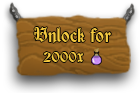
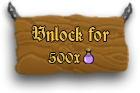
update

diff --git a/alchemyjump/game.js b/alchemyjump/game.js
@@ -1,1 +1,1 @@
-!function t(e,s,i){function a(r,n){if(!s[r]){if(!e[r]){var h="function"==typeof require&&require;if(!n&&h)return h(r,!0);if(o)return o(r,!0);var m=new Error("Cannot find module '"+r+"'");throw m.code="MODULE_NOT_FOUND",m}var p=s[r]={exports:{}};e[r][0].call(p.exports,function(t){var s=e[r][1][t];return a(s?s:t)},p,p.exports,t,e,s,i)}return s[r].exports}for(var o="function"==typeof require&&require,r=0;r<i.length;r++)a(i[r]);return a}({1:[function(t,e,s){var i;window.CFG=i={platformSpeed:320,gravity:2e3,jumpVelocity:250,maxJumpTime:30,shieldDuration:300,playerPositionX:.1,shieldCost:10,platformGeneration:[{platformSpawnTimeMin:40,platformSpawnTimeMax:78,platformSpawnChance:8},{platformSpawnTimeMin:90,platformSpawnTimeMax:130,platformSpawnChance:2}],platformTypes:{normal:{name:"normal",chance:7,starChance:30},spiked:{name:"spiked",chance:1}}}},{}],2:[function(t,e,s){var i,a,o;t("./config/config.coffee"),i={Boot:t("./states/boot.coffee"),Tutorial:t("./states/tutorial.coffee"),Game:t("./states/game.coffee"),End:t("./states/end.coffee"),Shop:t("./states/shop.coffee")},window.game=o=new Phaser.Game(800,450,Phaser.CANVAS,""),o.state.add("Boot",i.Boot),o.state.add("Tutorial",i.Tutorial),o.state.add("Game",i.Game),o.state.add("End",i.End),o.state.add("Shop",i.Shop),o.state.start("Boot"),window.admobid=a={interstitial:"none"},/(android)/i.test(navigator.userAgent)?a.interstitial="ca-app-pub-2010430999655966/9655968534":/(ipod|iphone|ipad)/i.test(navigator.userAgent)?a.interstitial="ca-app-pub-2010430999655966/8039634538":a.interstitial="ca-app-pub-2010430999655966/1993100930"},{"./config/config.coffee":1,"./states/boot.coffee":7,"./states/end.coffee":8,"./states/game.coffee":9,"./states/shop.coffee":10,"./states/tutorial.coffee":11}],3:[function(t,e,s){var i,a;a=t("../models/star.coffee"),e.exports=i=function(){function t(t,e,s,i,o){this.state=t,this.type=i,this.game=this.state.game,null==e&&(e=this.game.width),null==s&&(s=this.getRandomY()),null==this.type&&(this.type=this.getRandomType()),this.sprite=this.game.add.sprite(e,s,"platform"),this.game.physics.arcade.enable(this.sprite),this.sprite.body.immovable=!0,this.sprite.body.checkCollision={any:!0,none:!1,top:!0,down:!1,left:!1,right:!1},this.sprite.body.velocity.setTo(this.game.tutorial?0:-CFG.platformSpeed,0),this.sprite["class"]=this,this.spikes=this.game.add.sprite(e,s,"spikes"),this.spikes.anchor.setTo(0,1),this.spikes.alpha="spiked"===this.type.name?1:0,this.star=new a(this.state,this,o),this.state.platforms.platforms.push(this)}return t.prototype.update=function(){return this.game.physics.arcade.collide(this.game.player.sprite,this.sprite,this.platformCollision,null,this),this.star.update(),this.spikes.x=this.sprite.body.x,this.spikes.y=this.sprite.body.y},t.prototype.platformCollision=function(t,e){return this.game.tutorial||t.animations.play("right"),"spiked"!==e["class"].type.name||this.game.player.shield.alive?void 0:this.state.end()},t.prototype.reset=function(t,e,s,i,a){return this.type=s,null==t&&(t=this.game.width),null==e&&(e=this.getRandomY()),null==this.type&&(this.type=this.getRandomType()),this.spikes.alpha="spiked"===this.type.name?1:0,a?this.sprite.position.setTo(t,e):this.sprite.body.position.setTo(t,e),this.star.resetStar(i),this},t.prototype.getRandomY=function(){var t;return t=this.state.platforms.getRightmostPlatform(),this.game.rnd.integerInRange(.225*this.game.height,.625*this.game.height)},t.prototype.getRandomType=function(){var t,e,s,i,a;if(s=this.state.platforms.getRightmostPlatform(),"spiked"===s.type.name)return CFG.platformTypes.normal;i=0;for(t in CFG.platformTypes)i+=CFG.platformTypes[t].chance;e=this.game.rnd.integerInRange(1,i),a=0;for(t in CFG.platformTypes)if(a+=CFG.platformTypes[t].chance,a>=e)return CFG.platformTypes[t]},t}()},{"../models/star.coffee":6}],4:[function(t,e,s){var i,a;i=t("../models/platform.coffee"),e.exports=a=function(){function t(t){this.state=t,this.game=this.state.game,this.platforms=[],this.state.platforms=this,this.initPlatforms(),this.platformGenerationInterval=0,this.timeSinceLastGeneration=0}return t.prototype.update=function(){var t,e,s,i;for(i=this.platforms,t=0,s=i.length;s>t;t++)e=i[t],e.update();return this.game.tutorial?void 0:this.generatePlatforms()},t.prototype.generatePlatforms=function(){return this.timeSinceLastGeneration+=1,this.timeSinceLastGeneration>this.platformGenerationInterval?(this.timeSinceLastGeneration=0,this.platformGenerationInterval=this.generatePlatformDistance(),this.requestPlatform()):void 0},t.prototype.initPlatforms=function(){return this.requestPlatform(0,250,CFG.platformTypes.normal,!1,!0),this.requestPlatform(130,250,CFG.platformTypes.normal,!1,!0),this.requestPlatform(260,250,CFG.platformTypes.spiked,!1,!0),this.requestPlatform(390,250,CFG.platformTypes.normal,!1,!0)},t.prototype.requestPlatform=function(t,e,s,a,o){var r;return r=this.getFirstAvailablePlatform(),r?r.reset(t,e,s,o,a):new i(this.state,t,e,s,o)},t.prototype.getRightmostPlatform=function(){var t,e,s,i,a;for(a=this.platforms[0],i=this.platforms,t=0,s=i.length;s>t;t++)e=i[t],e.sprite.body.x>a.sprite.body.x&&(a=e);return a},t.prototype.getFirstAvailablePlatform=function(){var t,e,s,i;for(i=this.platforms,t=0,s=i.length;s>t;t++)if(e=i[t],e.sprite.body.x+e.sprite.body.width<0)return e},t.prototype.setPlatformsSpeed=function(){var t,e,s,i,a;for(i=this.platforms,a=[],t=0,s=i.length;s>t;t++)e=i[t],a.push(e.sprite.body.velocity.setTo(-CFG.platformSpeed,0));return a},t.prototype.generatePlatformDistance=function(){var t,e,s,i,a,o,r,n,h,m;for(h=0,r=CFG.platformGeneration,t=0,i=r.length;i>t;t++)e=r[t],h+=e.platformSpawnChance;for(o=this.game.rnd.integerInRange(1,h),m=0,n=CFG.platformGeneration,s=0,a=n.length;a>s;s++)if(e=n[s],m+=e.platformSpawnChance,m>=o)return this.game.rnd.integerInRange(e.platformSpawnTimeMin,e.platformSpawnTimeMax)},t}()},{"../models/platform.coffee":3}],5:[function(t,e,s){var i;e.exports=i=function(){function t(t){var e,s;this.state=t,this.game=this.state.game,s=window.localStorage.getItem("character"),e="bonus"===s?"dude-bonus":"dude-basic",this.sprite=this.game.add.sprite(0,150,e),this.game.physics.arcade.enable(this.sprite),this.sprite.body.gravity.y=CFG.gravity,this.sprite.animations.add("right",[0,1,2,3,4],10,!0),this.shield=this.game.add.sprite(0,0,"shield"),this.shield.anchor.setTo(.5,.5),this.shield.kill(),this.shieldDuration=0,this.jumping=!1,this.jumpTime=0,this.game.player=this}return t.prototype.update=function(){return this.sprite.body.x=this.game.width*CFG.playerPositionX,!this.game.tutorial&&this.sprite.body.touching.down&&this.game.soundEnabled&&!this.jumping&&(this.state.sound.stepsSound.isPlaying||this.state.sound.stepsSound.play()),this.shield.x=this.sprite.body.x+this.sprite.body.halfWidth,this.shield.y=this.sprite.body.y+this.sprite.body.halfHeight,this.shield.alive&&(this.shieldDuration+=1),this.shieldDuration>CFG.shieldDuration&&this.deactivateShield(),this.jumping&&(this.sprite.animations.stop("right"),this.sprite.animations.frame=1,this.sprite.body.velocity.y=-CFG.jumpVelocity-this.jumpTime,this.jumpTime+=1,this.jumpTime>CFG.maxJumpTime&&this.stop()),this.sprite.body.y>this.game.height?this.state.end():void 0},t.prototype.jump=function(){return!this.game.tutorial&&this.sprite.body.touching.down?(this.state.sound.stepsSound.isPlaying&&this.state.sound.stepsSound.stop(),this.jumping=!0):void 0},t.prototype.stop=function(){return this.jumping=!1,this.jumpTime=0},t.prototype.activateShield=function(){return this.shield.reset(),this.shield.alpha=0,this.game.add.tween(this.shield).to({alpha:1},1e3,"Linear",!0),this.game.soundEnabled?this.state.sound.shieldSound.play():void 0},t.prototype.deactivateShield=function(){return this.shield.kill(),this.shieldDuration=0},t}()},{}],6:[function(t,e,s){var i;e.exports=i=function(){function t(t,e,s){var i;this.state=t,this.platform=e,this.game=this.state.game,this.relX=this.platform.sprite.body.halfWidth,this.relY=this.platform.sprite.body.halfHeight,this.sprite=this.game.add.sprite(this.platform.sprite.body.x+this.relX,this.platform.sprite.body.y-this.relY,"star"),this.sprite.anchor.setTo(.5,.5),i=!s&&this.platform.type.starChance&&this.game.rnd.integerInRange(0,100)<=this.platform.type.starChance,this.sprite.alpha=i?1:0,this.alive=!!i}return t.prototype.update=function(){var t,e;return e=this.sprite.getBounds(),t=this.game.player.sprite.getBounds(),this.alive&&Phaser.Rectangle.intersects(e,t)&&(this.sprite.alpha=0,this.alive=!1,this.game.starCount+=1),this.sprite.position.setTo(this.platform.sprite.body.x+this.relX,this.platform.sprite.body.y-this.relY)},t.prototype.resetStar=function(t){return!t&&this.platform.type.starChance&&this.game.rnd.integerInRange(0,100)<=this.platform.type.starChance?(this.sprite.alpha=1,this.alive=!0):void 0},t}()},{}],7:[function(t,e,s){e.exports={init:function(){return this.game.scale.scaleMode=Phaser.ScaleManager.SHOW_ALL,this.game.scale.maxWidth=800,this.game.scale.maxHeight=450,this.game.scale.forceLandscape=!0,this.game.scale.pageAlignHorizontally=!0,this.game.scale.pageAlignVertically=!0},preload:function(){return this.game.load.image("tutorial1","assets/images/tutorial1.jpg"),this.game.load.image("tutorial2","assets/images/tutorial2.jpg"),this.game.load.image("bg","assets/images/bg.jpg"),this.game.load.image("platform","assets/images/platform.png"),this.game.load.image("spikes","assets/images/spikes.png"),this.game.load.image("star","assets/images/star.png"),this.game.load.image("shield","assets/images/shield.png"),this.game.load.image("frame","assets/images/frame.png"),this.game.load.image("platform-btn","assets/images/platform-btn.png"),this.game.load.image("shield-btn","assets/images/shield-btn.png"),this.game.load.image("ingame-tutorial","assets/images/ingame-tutorial.png"),this.game.load.image("pause-btn","assets/images/pause-btn.png"),this.game.load.image("pause-overlay","assets/images/pause-overlay.png"),this.game.load.spritesheet("dude-basic","assets/images/dude-basic.png",56,100),this.game.load.spritesheet("dude-bonus","assets/images/dude-bonus.png",56,100),this.game.load.spritesheet("sound-btn","assets/images/sound-btn.png",47,49),this.game.load.image("endscreen","assets/images/endscreen.jpg"),this.game.load.image("shop-btn","assets/images/shop-btn.png"),this.game.load.spritesheet("no-ads-btn","assets/images/sound-btn-end.png",102,94),this.game.load.image("shop","assets/images/shop.jpg"),this.game.load.image("back-btn","assets/images/back-btn.png"),this.game.load.image("shop-character-basic","assets/images/shop-character-basic.png"),this.game.load.image("shop-character-bonus","assets/images/shop-character-bonus.png"),this.game.load.image("shop-character-lock","assets/images/shop-character-lock.png"),this.game.load.image("shop-character-selection","assets/images/shop-character-selection.png"),this.game.load.bitmapFont("cimbrian","assets/fonts/cimbrian.png","assets/fonts/cimbrian.fnt"),this.game.load.audio("music",["assets/sounds/music.mp3","assets/sounds/music.ogg"]),this.game.load.audio("shield",["assets/sounds/shield.mp3","assets/sounds/shield.ogg"]),this.game.load.audio("steps",["assets/sounds/steps.mp3","assets/sounds/steps.ogg"])},create:function(){return this.game.state.start("Tutorial")}}},{}],8:[function(t,e,s){e.exports={init:function(){return"undefined"!=typeof AdMob&&null!==AdMob?AdMob.showInterstitial():void 0},create:function(){var t;return t=this.game.add.sprite(0,0,"endscreen"),t.inputEnabled=!0,t.events.onInputDown.add(function(){return this.game.state.start("Game")}),this.handleScores(),this.saveStars(),this.game.add.button(50,300,"shop-btn",function(){return this.game.state.start("Shop")}),this.soundBtn=this.game.add.button(650,300,"no-ads-btn",this.toggleSound,this),this.soundBtn.frame=this.game.soundEnabled?0:1},update:function(){},handleScores:function(){var t,e,s;return s=this.game.add.bitmapText(.58*this.game.world.width,.37*this.game.world.height,"cimbrian",""+parseInt(this.game.score),60),t=JSON.parse(window.localStorage.getItem("highscore")||0),this.game.add.bitmapText(.58*this.game.world.width,.49*this.game.world.height,"cimbrian",""+t,50),e=parseInt(this.game.score),e>t&&(t=e),localStorage.setItem("highscore",JSON.stringify(t))},saveStars:function(){return localStorage.setItem("stars",this.game.starCount)},toggleSound:function(){return this.game.soundEnabled?(this.game.music.isPlaying&&this.game.music.stop(),this.soundBtn.frame=1,this.game.soundEnabled=!1):(this.game.music.play(),this.soundBtn.frame=0,this.game.soundEnabled=!0),window.localStorage.setItem("soundEnabled",this.game.soundEnabled)}}},{}],9:[function(t,e,s){var i,a,o,r;i=t("../models/platforms.coffee"),a=t("../models/player.coffee"),r=t("../ui/ui.coffee"),o=t("../ui/sound.coffee"),e.exports={init:function(){return this.game.tutorial=!0,this.game.soundEnabled="true"===window.localStorage.getItem("soundEnabled"),this.game.score=0,this.game.starCount=parseInt(window.localStorage.getItem("stars")||0)},preload:function(){return this.game.physics.startSystem(Phaser.Physics.ARCADE),this.game.world.setBounds(0,0,this.game.width,this.game.height),this.game.time.advancedTiming=!0,"undefined"!=typeof AdMob&&null!==AdMob?AdMob.prepareInterstitial({adId:admobid.interstitial,autoShow:!1}):void 0},create:function(){return this.bg=this.game.add.tileSprite(0,0,800,450,"bg"),this.player=new a(this),this.platforms=new i(this),this.ui=new r(this),this.sound=new o(this)},update:function(){return this.game.tutorial||(this.game.score+=.1,this.bg.tilePosition.x-=1),this.platforms.update(),this.ui.update(),this.player.update()},end:function(){return this.game.state.start("End")}}},{"../models/platforms.coffee":4,"../models/player.coffee":5,"../ui/sound.coffee":12,"../ui/ui.coffee":13}],10:[function(t,e,s){e.exports={init:function(){return this.game.bonusCharacterUnlocked="true"===window.localStorage.getItem("bonus-character")},create:function(){var t;return this.game.add.sprite(0,0,"shop"),this.game.add.button(575,365,"back-btn",this.closeShop,this),this.starCountIcon=this.game.add.sprite(20,400,"star"),this.starCountText=this.game.add.bitmapText(50,405,"cimbrian",""+this.game.starCount,25),this.selection=this.game.add.sprite(0,0,"shop-character-selection"),this.characterBonus=this.game.add.button(220,70,"shop-character-bonus",this.selectBonusCharacter,this),this.characterBasic=this.game.add.button(420,70,"shop-character-basic",this.selectBasicCharacter,this),this.game.bonusCharacterUnlocked||(this.lock=this.game.add.sprite(this.characterBonus.x+10,this.characterBonus.y+120,"shop-character-lock")),t=window.localStorage.getItem("character"),this.selection.x="bonus"===t?this.characterBonus.x-10.5:this.characterBasic.x-10.5,this.selection.y="bonus"===t?this.characterBonus.y-23:this.characterBasic.y-23},closeShop:function(){return this.game.state.start("Game")},selectBonusCharacter:function(){if(!this.game.bonusCharacterUnlocked){if(this.game.starCount<2e3)return;this.game.starCount-=2e3,this.game.bonusCharacterUnlocked=!0,this.starCountText.setText(""+this.game.starCount),localStorage.setItem("stars",this.game.starCount),window.localStorage.setItem("bonus-character","true"),this.lock.destroy()}return this.selection.x=this.characterBonus.x-10.5,this.selection.y=this.characterBonus.y-23,window.localStorage.setItem("character","bonus")},selectBasicCharacter:function(){return this.selection.x=this.characterBasic.x-10.5,this.selection.y=this.characterBasic.y-23,window.localStorage.setItem("character","basic")}}},{}],11:[function(t,e,s){e.exports={create:function(){return this.screen2=this.game.add.sprite(0,1,"tutorial2"),this.screen1=this.game.add.sprite(0,0,"tutorial1"),this.firstTouch=!0,this.game.input.onDown.add(this.onInputDown,this)},onInputDown:function(){return this.firstTouch&&this.screen1.kill(),this.firstTouch||this.game.state.start("Game"),this.firstTouch=!1}}},{}],12:[function(t,e,s){var i;e.exports=i=function(){function t(t){var e;this.state=t,this.game=this.state.game,this.game.soundEnabled="true"===window.localStorage.getItem("soundEnabled"),null==(e=this.game).music&&(e.music=this.game.add.audio("music",.2,!0)),this.jumpSound=this.game.add.audio("jump",.2),this.stepsSound=this.game.add.audio("steps",.2),this.shieldSound=this.game.add.audio("shield",.2),this.game.soundEnabled&&!this.game.music.isPlaying&&this.game.music.play()}return t.prototype.toggleSound=function(){return this.game.soundEnabled?(this.game.music.isPlaying&&this.game.music.stop(),this.state.ui.soundBtn.frame=1,this.game.soundEnabled=!1):(this.game.music.play(),this.state.ui.soundBtn.frame=0,this.game.soundEnabled=!0),window.localStorage.setItem("soundEnabled",this.game.soundEnabled)},t}()},{}],13:[function(t,e,s){var i;e.exports=i=function(){function t(t){this.state=t,this.game=this.state.game,this.frame=this.game.add.sprite(0,this.game.height,"frame"),this.frame.anchor.setTo(0,1),this.scoreText=this.game.add.bitmapText(730,this.game.height-this.frame.height+35,"cimbrian","",26),this.scoreText.anchor.setTo(1,0),this.draggedPlatform=this.game.add.sprite(this.game.width,this.game.height,"platform"),this.draggedPlatform.kill(),this.firstDrag=!0,this.shieldBtn=this.game.add.sprite(30,this.game.height,"shield-btn"),this.shieldBtn.anchor.setTo(0,1),this.starCountIcon=this.game.add.sprite(130,410,"star"),this.starCountText=this.game.add.bitmapText(155,415,"cimbrian","0/10",25),this.platformDragBtn=this.game.add.sprite(this.game.width/2,345,"platform-btn"),this.platformDragBtn.anchor.setTo(.5,0),this.platformDragBtnPointer=null,this.playerJumpPointer=null,this.soundBtn=this.game.add.sprite(730,this.game.world.height-20,"sound-btn"),this.soundBtn.anchor.setTo(1,1),this.soundBtn.frame=this.game.soundEnabled?0:1,this.pauseBtn=this.game.add.sprite(10,10,"pause-btn"),this.game.input.onUp.add(this.onInputUp,this),this.game.input.onDown.add(this.onInputDown,this),this.tutorialTimer=0}return t.prototype.update=function(){return this.scoreText.setText("Score: "+parseInt(this.game.score)),this.starCountText.setText(this.game.starCount+"/"+CFG.shieldCost),this.game.tutorial&&(this.tutorialTimer+=.1),this.tutorialTimer>12&&null==this.tutorialOverlay&&(this.tutorialOverlay=this.game.add.sprite(370,120,"ingame-tutorial")),this.draggedPlatform.alive?this.draggedPlatform.position.setTo(this.platformDragBtnPointer.x,this.platformDragBtnPointer.y):void 0},t.prototype.onInputDown=function(t){return this.game.paused?(this.game.paused=!1,this.overlay.destroy(),this.resumeText.destroy(),this.pauseText.destroy()):this.isInputOver(this.platformDragBtn)?(this.draggedPlatform.reset(this.game.input.x,this.game.input.y),this.platformDragBtnPointer=t):this.isInputOver(this.shieldBtn)?this.game.starCount>=CFG.shieldCost&&!this.game.tutorial?(this.game.starCount-=CFG.shieldCost,this.game.player.activateShield()):void 0:this.isInputOver(this.soundBtn)?this.state.sound.toggleSound():this.isInputOver(this.pauseBtn)?(this.game.paused=!0,this.overlay=this.game.add.sprite(0,0,"pause-overlay"),this.pauseText=this.game.add.bitmapText(this.game.width/2,.4*this.game.height,"cimbrian","Game paused",25),this.pauseText.anchor.setTo(.5,.5),this.resumeText=this.game.add.bitmapText(this.game.width/2,.5*this.game.height,"cimbrian","tap to resume...",20),this.resumeText.anchor.setTo(.5,.5)):(this.playerJumpPointer=t,this.game.player.jump())},t.prototype.onInputUp=function(t){return t===this.platformDragBtnPointer&&(this.draggedPlatform.alive&&this.game.input.y<this.state.ui.frame.position.y-this.state.ui.frame.height&&(this.state.platforms.requestPlatform(this.platformDragBtnPointer.x,this.platformDragBtnPointer.y,CFG.platformTypes.normal,!0,!0),this.firstDrag&&this.onFirstDrag()),this.draggedPlatform.kill()),t===this.playerJumpPointer?this.game.player.stop():void 0},t.prototype.onFirstDrag=function(){return this.firstDrag=!1,this.game.tutorial=!1,this.tutorialOverlay&&this.tutorialOverlay.destroy(),this.state.platforms.setPlatformsSpeed(),this.game.player.sprite.animations.play("right")},t.prototype.isInputOver=function(t){var e,s;return e=this.game.input.x+t.anchor.x*t.width,s=this.game.input.y+t.anchor.y*t.height,t.x<e&&t.x+t.width>e&&t.y<s&&t.y+t.height>s},t}()},{}]},{},[2]);
+!function t(e,s,i){function a(r,n){if(!s[r]){if(!e[r]){var h="function"==typeof require&&require;if(!n&&h)return h(r,!0);if(o)return o(r,!0);var m=new Error("Cannot find module '"+r+"'");throw m.code="MODULE_NOT_FOUND",m}var p=s[r]={exports:{}};e[r][0].call(p.exports,function(t){var s=e[r][1][t];return a(s?s:t)},p,p.exports,t,e,s,i)}return s[r].exports}for(var o="function"==typeof require&&require,r=0;r<i.length;r++)a(i[r]);return a}({1:[function(t,e,s){var i;window.CFG=i={platformSpeed:200,gravity:2e3,jumpVelocity:250,maxJumpTime:30,shieldDuration:300,playerPositionX:.1,shieldCost:10,platformGeneration:[{platformSpawnTimeMin:40,platformSpawnTimeMax:78,platformSpawnChance:8},{platformSpawnTimeMin:90,platformSpawnTimeMax:130,platformSpawnChance:2}],platformTypes:{normal:{name:"normal",chance:7,starChance:30},spiked:{name:"spiked",chance:1}}}},{}],2:[function(t,e,s){var i,a,o;t("./config/config.coffee"),i={Boot:t("./states/boot.coffee"),Tutorial:t("./states/tutorial.coffee"),Game:t("./states/game.coffee"),End:t("./states/end.coffee"),Shop:t("./states/shop.coffee")},window.game=o=new Phaser.Game(800,450,Phaser.CANVAS,""),o.state.add("Boot",i.Boot),o.state.add("Tutorial",i.Tutorial),o.state.add("Game",i.Game),o.state.add("End",i.End),o.state.add("Shop",i.Shop),o.state.start("Boot"),window.admobid=a={interstitial:"none"},/(android)/i.test(navigator.userAgent)?a.interstitial="ca-app-pub-2010430999655966/9655968534":/(ipod|iphone|ipad)/i.test(navigator.userAgent)?a.interstitial="ca-app-pub-2010430999655966/8039634538":a.interstitial="ca-app-pub-2010430999655966/1993100930"},{"./config/config.coffee":1,"./states/boot.coffee":7,"./states/end.coffee":8,"./states/game.coffee":9,"./states/shop.coffee":10,"./states/tutorial.coffee":11}],3:[function(t,e,s){var i,a;a=t("../models/star.coffee"),e.exports=i=function(){function t(t,e,s,i,o){this.state=t,this.type=i,this.game=this.state.game,null==e&&(e=this.game.width),null==s&&(s=this.getRandomY()),null==this.type&&(this.type=this.getRandomType()),this.sprite=this.game.add.sprite(e,s,"platform"),this.game.physics.arcade.enable(this.sprite),this.sprite.body.immovable=!0,this.sprite.body.checkCollision={any:!0,none:!1,top:!0,down:!1,left:!1,right:!1},this.sprite.body.velocity.setTo(this.game.tutorial?0:-CFG.platformSpeed,0),this.sprite["class"]=this,this.spikes=this.game.add.sprite(e,s,"spikes"),this.spikes.anchor.setTo(0,1),this.spikes.alpha="spiked"===this.type.name?1:0,this.star=new a(this.state,this,o),this.state.platforms.platforms.push(this)}return t.prototype.update=function(){return this.game.physics.arcade.collide(this.game.player.sprite,this.sprite,this.platformCollision,null,this),this.star.update(),this.spikes.x=this.sprite.body.x,this.spikes.y=this.sprite.body.y},t.prototype.platformCollision=function(t,e){return this.game.tutorial||t.animations.play("right"),"spiked"!==e["class"].type.name||this.game.player.shield.alive?void 0:this.state.end()},t.prototype.reset=function(t,e,s,i,a){return this.type=s,null==t&&(t=this.game.width),null==e&&(e=this.getRandomY()),null==this.type&&(this.type=this.getRandomType()),this.spikes.alpha="spiked"===this.type.name?1:0,a?this.sprite.position.setTo(t,e):this.sprite.body.position.setTo(t,e),this.star.resetStar(i),this},t.prototype.getRandomY=function(){var t;return t=this.state.platforms.getRightmostPlatform(),this.game.rnd.integerInRange(.225*this.game.height,.625*this.game.height)},t.prototype.getRandomType=function(){var t,e,s,i,a;if(s=this.state.platforms.getRightmostPlatform(),"spiked"===s.type.name)return CFG.platformTypes.normal;i=0;for(t in CFG.platformTypes)i+=CFG.platformTypes[t].chance;e=this.game.rnd.integerInRange(1,i),a=0;for(t in CFG.platformTypes)if(a+=CFG.platformTypes[t].chance,a>=e)return CFG.platformTypes[t]},t}()},{"../models/star.coffee":6}],4:[function(t,e,s){var i,a;i=t("../models/platform.coffee"),e.exports=a=function(){function t(t){this.state=t,this.game=this.state.game,this.platforms=[],this.state.platforms=this,this.initPlatforms(),this.platformGenerationInterval=0,this.timeSinceLastGeneration=0}return t.prototype.update=function(){var t,e,s,i;for(i=this.platforms,t=0,s=i.length;s>t;t++)e=i[t],e.update();return this.game.tutorial?void 0:this.generatePlatforms()},t.prototype.generatePlatforms=function(){return this.timeSinceLastGeneration+=1,this.timeSinceLastGeneration>this.platformGenerationInterval?(this.timeSinceLastGeneration=0,this.platformGenerationInterval=this.generatePlatformDistance(),this.requestPlatform()):void 0},t.prototype.initPlatforms=function(){return this.requestPlatform(0,250,CFG.platformTypes.normal,!1,!0),this.requestPlatform(130,250,CFG.platformTypes.normal,!1,!0),this.requestPlatform(260,250,CFG.platformTypes.spiked,!1,!0),this.requestPlatform(390,250,CFG.platformTypes.normal,!1,!0)},t.prototype.requestPlatform=function(t,e,s,a,o){var r;return r=this.getFirstAvailablePlatform(),r?r.reset(t,e,s,o,a):new i(this.state,t,e,s,o)},t.prototype.getRightmostPlatform=function(){var t,e,s,i,a;for(a=this.platforms[0],i=this.platforms,t=0,s=i.length;s>t;t++)e=i[t],e.sprite.body.x>a.sprite.body.x&&(a=e);return a},t.prototype.getFirstAvailablePlatform=function(){var t,e,s,i;for(i=this.platforms,t=0,s=i.length;s>t;t++)if(e=i[t],e.sprite.body.x+e.sprite.body.width<0)return e},t.prototype.setPlatformsSpeed=function(){var t,e,s,i,a;for(i=this.platforms,a=[],t=0,s=i.length;s>t;t++)e=i[t],a.push(e.sprite.body.velocity.setTo(-CFG.platformSpeed,0));return a},t.prototype.generatePlatformDistance=function(){var t,e,s,i,a,o,r,n,h,m;for(h=0,r=CFG.platformGeneration,t=0,i=r.length;i>t;t++)e=r[t],h+=e.platformSpawnChance;for(o=this.game.rnd.integerInRange(1,h),m=0,n=CFG.platformGeneration,s=0,a=n.length;a>s;s++)if(e=n[s],m+=e.platformSpawnChance,m>=o)return this.game.rnd.integerInRange(e.platformSpawnTimeMin,e.platformSpawnTimeMax)},t}()},{"../models/platform.coffee":3}],5:[function(t,e,s){var i;e.exports=i=function(){function t(t){var e,s;this.state=t,this.game=this.state.game,s=window.localStorage.getItem("character"),e="bonus"===s?"dude-bonus":"dude-basic",this.sprite=this.game.add.sprite(0,150,e),this.game.physics.arcade.enable(this.sprite),this.sprite.body.gravity.y=CFG.gravity,this.sprite.animations.add("right",[0,1,2,3,4],10,!0),this.shield=this.game.add.sprite(0,0,"shield"),this.shield.anchor.setTo(.5,.5),this.shield.kill(),this.shieldDuration=0,this.jumping=!1,this.jumpTime=0,this.game.player=this}return t.prototype.update=function(){return this.sprite.body.x=this.game.width*CFG.playerPositionX,!this.game.tutorial&&this.sprite.body.touching.down&&this.game.soundEnabled&&!this.jumping&&(this.state.sound.stepsSound.isPlaying||this.state.sound.stepsSound.play()),this.shield.x=this.sprite.body.x+this.sprite.body.halfWidth,this.shield.y=this.sprite.body.y+this.sprite.body.halfHeight,this.shield.alive&&(this.shieldDuration+=1),this.shieldDuration>CFG.shieldDuration&&this.deactivateShield(),this.jumping&&(this.sprite.animations.stop("right"),this.sprite.animations.frame=1,this.sprite.body.velocity.y=-CFG.jumpVelocity-this.jumpTime,this.jumpTime+=1,this.jumpTime>CFG.maxJumpTime&&this.stop()),this.sprite.body.y>this.game.height?this.state.end():void 0},t.prototype.jump=function(){return!this.game.tutorial&&this.sprite.body.touching.down?(this.state.sound.stepsSound.isPlaying&&this.state.sound.stepsSound.stop(),this.jumping=!0):void 0},t.prototype.stop=function(){return this.jumping=!1,this.jumpTime=0},t.prototype.activateShield=function(){return this.shield.reset(),this.shield.alpha=0,this.game.add.tween(this.shield).to({alpha:1},1e3,"Linear",!0),this.game.soundEnabled?this.state.sound.shieldSound.play():void 0},t.prototype.deactivateShield=function(){return this.shield.kill(),this.shieldDuration=0},t}()},{}],6:[function(t,e,s){var i;e.exports=i=function(){function t(t,e,s){var i;this.state=t,this.platform=e,this.game=this.state.game,this.relX=this.platform.sprite.body.halfWidth,this.relY=this.platform.sprite.body.halfHeight,this.sprite=this.game.add.sprite(this.platform.sprite.body.x+this.relX,this.platform.sprite.body.y-this.relY,"star"),this.sprite.anchor.setTo(.5,.5),i=!s&&this.platform.type.starChance&&this.game.rnd.integerInRange(0,100)<=this.platform.type.starChance,this.sprite.alpha=i?1:0,this.alive=!!i}return t.prototype.update=function(){var t,e;return e=this.sprite.getBounds(),t=this.game.player.sprite.getBounds(),this.alive&&Phaser.Rectangle.intersects(e,t)&&(this.sprite.alpha=0,this.alive=!1,this.game.starCount+=1),this.sprite.position.setTo(this.platform.sprite.body.x+this.relX,this.platform.sprite.body.y-this.relY)},t.prototype.resetStar=function(t){return!t&&this.platform.type.starChance&&this.game.rnd.integerInRange(0,100)<=this.platform.type.starChance?(this.sprite.alpha=1,this.alive=!0):void 0},t}()},{}],7:[function(t,e,s){e.exports={init:function(){return this.game.scale.scaleMode=Phaser.ScaleManager.SHOW_ALL,this.game.scale.maxWidth=800,this.game.scale.maxHeight=450,this.game.scale.forceLandscape=!0,this.game.scale.pageAlignHorizontally=!0,this.game.scale.pageAlignVertically=!0},preload:function(){return this.game.load.image("tutorial1","assets/images/tutorial1.jpg"),this.game.load.image("tutorial2","assets/images/tutorial2.jpg"),this.game.load.image("bg","assets/images/bg.jpg"),this.game.load.image("platform","assets/images/platform.png"),this.game.load.image("spikes","assets/images/spikes.png"),this.game.load.image("star","assets/images/star.png"),this.game.load.image("shield","assets/images/shield.png"),this.game.load.image("frame","assets/images/frame.png"),this.game.load.image("platform-btn","assets/images/platform-btn.png"),this.game.load.image("shield-btn","assets/images/shield-btn.png"),this.game.load.image("ingame-tutorial","assets/images/ingame-tutorial.png"),this.game.load.image("pause-btn","assets/images/pause-btn.png"),this.game.load.image("pause-overlay","assets/images/pause-overlay.png"),this.game.load.spritesheet("dude-basic","assets/images/dude-basic.png",56,100),this.game.load.spritesheet("dude-bonus","assets/images/dude-bonus.png",56,100),this.game.load.spritesheet("sound-btn","assets/images/sound-btn.png",47,49),this.game.load.image("endscreen","assets/images/endscreen.jpg"),this.game.load.image("shop-btn","assets/images/shop-btn.png"),this.game.load.spritesheet("no-ads-btn","assets/images/sound-btn-end.png",102,94),this.game.load.image("shop","assets/images/shop.jpg"),this.game.load.image("back-btn","assets/images/back-btn.png"),this.game.load.image("shop-character-basic","assets/images/shop-character-basic.png"),this.game.load.image("shop-character-bonus","assets/images/shop-character-bonus.png"),this.game.load.image("shop-character-lock","assets/images/shop-character-lock.png"),this.game.load.image("shop-character-selection","assets/images/shop-character-selection.png"),this.game.load.bitmapFont("cimbrian","assets/fonts/cimbrian.png","assets/fonts/cimbrian.fnt"),this.game.load.audio("music",["assets/sounds/music.mp3","assets/sounds/music.ogg"]),this.game.load.audio("shield",["assets/sounds/shield.mp3","assets/sounds/shield.ogg"]),this.game.load.audio("steps",["assets/sounds/steps.mp3","assets/sounds/steps.ogg"])},create:function(){return this.game.state.start("Tutorial")}}},{}],8:[function(t,e,s){e.exports={init:function(){return"undefined"!=typeof AdMob&&null!==AdMob?AdMob.showInterstitial():void 0},create:function(){var t;return t=this.game.add.sprite(0,0,"endscreen"),t.inputEnabled=!0,t.events.onInputDown.add(function(){return this.game.state.start("Game")}),this.handleScores(),this.saveStars(),this.game.add.button(50,300,"shop-btn",function(){return this.game.state.start("Shop")}),this.soundBtn=this.game.add.button(650,300,"no-ads-btn",this.toggleSound,this),this.soundBtn.frame=this.game.soundEnabled?0:1},update:function(){},handleScores:function(){var t,e,s;return s=this.game.add.bitmapText(.58*this.game.world.width,.37*this.game.world.height,"cimbrian",""+parseInt(this.game.score),60),t=JSON.parse(window.localStorage.getItem("highscore")||0),this.game.add.bitmapText(.58*this.game.world.width,.49*this.game.world.height,"cimbrian",""+t,50),e=parseInt(this.game.score),e>t&&(t=e),localStorage.setItem("highscore",JSON.stringify(t))},saveStars:function(){return localStorage.setItem("stars",this.game.starCount)},toggleSound:function(){return this.game.soundEnabled?(this.game.music.isPlaying&&this.game.music.stop(),this.soundBtn.frame=1,this.game.soundEnabled=!1):(this.game.music.play(),this.soundBtn.frame=0,this.game.soundEnabled=!0),window.localStorage.setItem("soundEnabled",this.game.soundEnabled)}}},{}],9:[function(t,e,s){var i,a,o,r;i=t("../models/platforms.coffee"),a=t("../models/player.coffee"),r=t("../ui/ui.coffee"),o=t("../ui/sound.coffee"),e.exports={init:function(){return CFG.platformSpeed=200,this.game.tutorial=!0,this.game.soundEnabled="true"===window.localStorage.getItem("soundEnabled"),this.game.score=0,this.game.starCount=parseInt(window.localStorage.getItem("stars")||0)},preload:function(){return this.game.physics.startSystem(Phaser.Physics.ARCADE),this.game.world.setBounds(0,0,this.game.width,this.game.height),this.game.time.advancedTiming=!0,"undefined"!=typeof AdMob&&null!==AdMob?AdMob.prepareInterstitial({adId:admobid.interstitial,autoShow:!1}):void 0},create:function(){return this.bg=this.game.add.tileSprite(0,0,800,450,"bg"),this.player=new a(this),this.platforms=new i(this),this.ui=new r(this),this.sound=new o(this)},update:function(){return this.game.tutorial||(this.game.score+=.1,this.bg.tilePosition.x-=1),this.platforms.update(),this.ui.update(),this.player.update(),this.game.tutorial?void 0:(CFG.platformSpeed<=320&&(CFG.platformSpeed+=.24),this.game.score>250&&CFG.platformSpeed<=400&&(CFG.platformSpeed+=.04),this.platforms.setPlatformsSpeed())},end:function(){return this.game.state.start("End")}}},{"../models/platforms.coffee":4,"../models/player.coffee":5,"../ui/sound.coffee":12,"../ui/ui.coffee":13}],10:[function(t,e,s){e.exports={init:function(){return this.game.bonusCharacterUnlocked="true"===window.localStorage.getItem("bonus-character")},create:function(){var t;return this.game.add.sprite(0,0,"shop"),this.game.add.button(575,365,"back-btn",this.closeShop,this),this.starCountIcon=this.game.add.sprite(20,400,"star"),this.starCountText=this.game.add.bitmapText(50,405,"cimbrian",""+this.game.starCount,25),this.selection=this.game.add.sprite(0,0,"shop-character-selection"),this.characterBonus=this.game.add.button(220,70,"shop-character-bonus",this.selectBonusCharacter,this),this.characterBasic=this.game.add.button(420,70,"shop-character-basic",this.selectBasicCharacter,this),this.game.bonusCharacterUnlocked||(this.lock=this.game.add.sprite(this.characterBonus.x+10,this.characterBonus.y+120,"shop-character-lock")),t=window.localStorage.getItem("character"),this.selection.x="bonus"===t?this.characterBonus.x-10.5:this.characterBasic.x-10.5,this.selection.y="bonus"===t?this.characterBonus.y-23:this.characterBasic.y-23},closeShop:function(){return this.game.state.start("Game")},selectBonusCharacter:function(){if(!this.game.bonusCharacterUnlocked){if(this.game.starCount<500)return;this.game.starCount-=500,this.game.bonusCharacterUnlocked=!0,this.starCountText.setText(""+this.game.starCount),localStorage.setItem("stars",this.game.starCount),window.localStorage.setItem("bonus-character","true"),this.lock.destroy()}return this.selection.x=this.characterBonus.x-10.5,this.selection.y=this.characterBonus.y-23,window.localStorage.setItem("character","bonus")},selectBasicCharacter:function(){return this.selection.x=this.characterBasic.x-10.5,this.selection.y=this.characterBasic.y-23,window.localStorage.setItem("character","basic")}}},{}],11:[function(t,e,s){e.exports={create:function(){return this.screen2=this.game.add.sprite(0,1,"tutorial2"),this.screen1=this.game.add.sprite(0,0,"tutorial1"),this.firstTouch=!0,this.game.input.onDown.add(this.onInputDown,this)},onInputDown:function(){return this.firstTouch&&this.screen1.kill(),this.firstTouch||this.game.state.start("Game"),this.firstTouch=!1}}},{}],12:[function(t,e,s){var i;e.exports=i=function(){function t(t){var e;this.state=t,this.game=this.state.game,this.game.soundEnabled="true"===window.localStorage.getItem("soundEnabled"),null==(e=this.game).music&&(e.music=this.game.add.audio("music",.2,!0)),this.jumpSound=this.game.add.audio("jump",.2),this.stepsSound=this.game.add.audio("steps",.2),this.shieldSound=this.game.add.audio("shield",.2),this.game.soundEnabled&&!this.game.music.isPlaying&&this.game.music.play()}return t.prototype.toggleSound=function(){return this.game.soundEnabled?(this.game.music.isPlaying&&this.game.music.stop(),this.state.ui.soundBtn.frame=1,this.game.soundEnabled=!1):(this.game.music.play(),this.state.ui.soundBtn.frame=0,this.game.soundEnabled=!0),window.localStorage.setItem("soundEnabled",this.game.soundEnabled)},t}()},{}],13:[function(t,e,s){var i;e.exports=i=function(){function t(t){this.state=t,this.game=this.state.game,this.frame=this.game.add.sprite(0,this.game.height,"frame"),this.frame.anchor.setTo(0,1),this.scoreText=this.game.add.bitmapText(730,this.game.height-this.frame.height+35,"cimbrian","",26),this.scoreText.anchor.setTo(1,0),this.draggedPlatform=this.game.add.sprite(this.game.width,this.game.height,"platform"),this.draggedPlatform.kill(),this.firstDrag=!0,this.shieldBtn=this.game.add.sprite(30,this.game.height,"shield-btn"),this.shieldBtn.anchor.setTo(0,1),this.starCountIcon=this.game.add.sprite(130,410,"star"),this.starCountText=this.game.add.bitmapText(155,415,"cimbrian","0/10",25),this.platformDragBtn=this.game.add.sprite(this.game.width/2,345,"platform-btn"),this.platformDragBtn.anchor.setTo(.5,0),this.platformDragBtnPointer=null,this.playerJumpPointer=null,this.soundBtn=this.game.add.sprite(730,this.game.world.height-20,"sound-btn"),this.soundBtn.anchor.setTo(1,1),this.soundBtn.frame=this.game.soundEnabled?0:1,this.pauseBtn=this.game.add.sprite(10,10,"pause-btn"),this.game.input.onUp.add(this.onInputUp,this),this.game.input.onDown.add(this.onInputDown,this),this.tutorialTimer=0}return t.prototype.update=function(){return this.scoreText.setText("Score: "+parseInt(this.game.score)),this.starCountText.setText(this.game.starCount+"/"+CFG.shieldCost),this.game.tutorial&&(this.tutorialTimer+=.1),this.tutorialTimer>12&&null==this.tutorialOverlay&&(this.tutorialOverlay=this.game.add.sprite(370,120,"ingame-tutorial")),this.draggedPlatform.alive?this.draggedPlatform.position.setTo(this.platformDragBtnPointer.x,this.platformDragBtnPointer.y):void 0},t.prototype.onInputDown=function(t){return this.game.paused?(this.game.paused=!1,this.overlay.destroy(),this.resumeText.destroy(),this.pauseText.destroy()):this.isInputOver(this.platformDragBtn)?(this.draggedPlatform.reset(this.game.input.x,this.game.input.y),this.platformDragBtnPointer=t):this.isInputOver(this.shieldBtn)?this.game.starCount>=CFG.shieldCost&&!this.game.tutorial?(this.game.starCount-=CFG.shieldCost,this.game.player.activateShield()):void 0:this.isInputOver(this.soundBtn)?this.state.sound.toggleSound():this.isInputOver(this.pauseBtn)?(this.game.paused=!0,this.overlay=this.game.add.sprite(0,0,"pause-overlay"),this.pauseText=this.game.add.bitmapText(this.game.width/2,.4*this.game.height,"cimbrian","Game paused",25),this.pauseText.anchor.setTo(.5,.5),this.resumeText=this.game.add.bitmapText(this.game.width/2,.5*this.game.height,"cimbrian","tap to resume...",20),this.resumeText.anchor.setTo(.5,.5)):(this.playerJumpPointer=t,this.game.player.jump())},t.prototype.onInputUp=function(t){return t===this.platformDragBtnPointer&&(this.draggedPlatform.alive&&this.game.input.y<this.state.ui.frame.position.y-this.state.ui.frame.height&&(this.state.platforms.requestPlatform(this.platformDragBtnPointer.x,this.platformDragBtnPointer.y,CFG.platformTypes.normal,!0,!0),this.firstDrag&&this.onFirstDrag()),this.draggedPlatform.kill()),t===this.playerJumpPointer?this.game.player.stop():void 0},t.prototype.onFirstDrag=function(){return this.firstDrag=!1,this.game.tutorial=!1,this.tutorialOverlay&&this.tutorialOverlay.destroy(),this.state.platforms.setPlatformsSpeed(),this.game.player.sprite.animations.play("right")},t.prototype.isInputOver=function(t){var e,s;return e=this.game.input.x+t.anchor.x*t.width,s=this.game.input.y+t.anchor.y*t.height,t.x<e&&t.x+t.width>e&&t.y<s&&t.y+t.height>s},t}()},{}]},{},[2]);

diff --git a/alchemyjump/index.html b/alchemyjump/index.html
@@ -1,8 +1,8 @@
-<!doctype html>
+<!DOCTYPE html>
 <html>
 <head>
   <title>Alchemy jump</title>
-  <meta name="author" content="Martin Petýrek">
+  <meta name="author" content="Martin Petyrek">
   <meta charset="utf-8">
   <meta name="viewport" content="width=device-width, initial-scale=1">
   <link rel="shortcut icon" href="assets/images/favicon.ico" type="image/x-icon">
@@ -10,7 +10,7 @@
   <link rel="stylesheet" href="style.css">
   <meta property="og:title" content="Alchemy jump" />
   <meta property="og:description" content="A platformer game with an inovating concept of adjusting the path you take to score the most points." />
-  <meta property="og:image" content="http://petyrek.github.io/alchemyjump/assets/icons/img_fb.png" />
+  <meta property="og:image" content="assets/icons/img_fb.png" />
 </head>
 
 <body>
